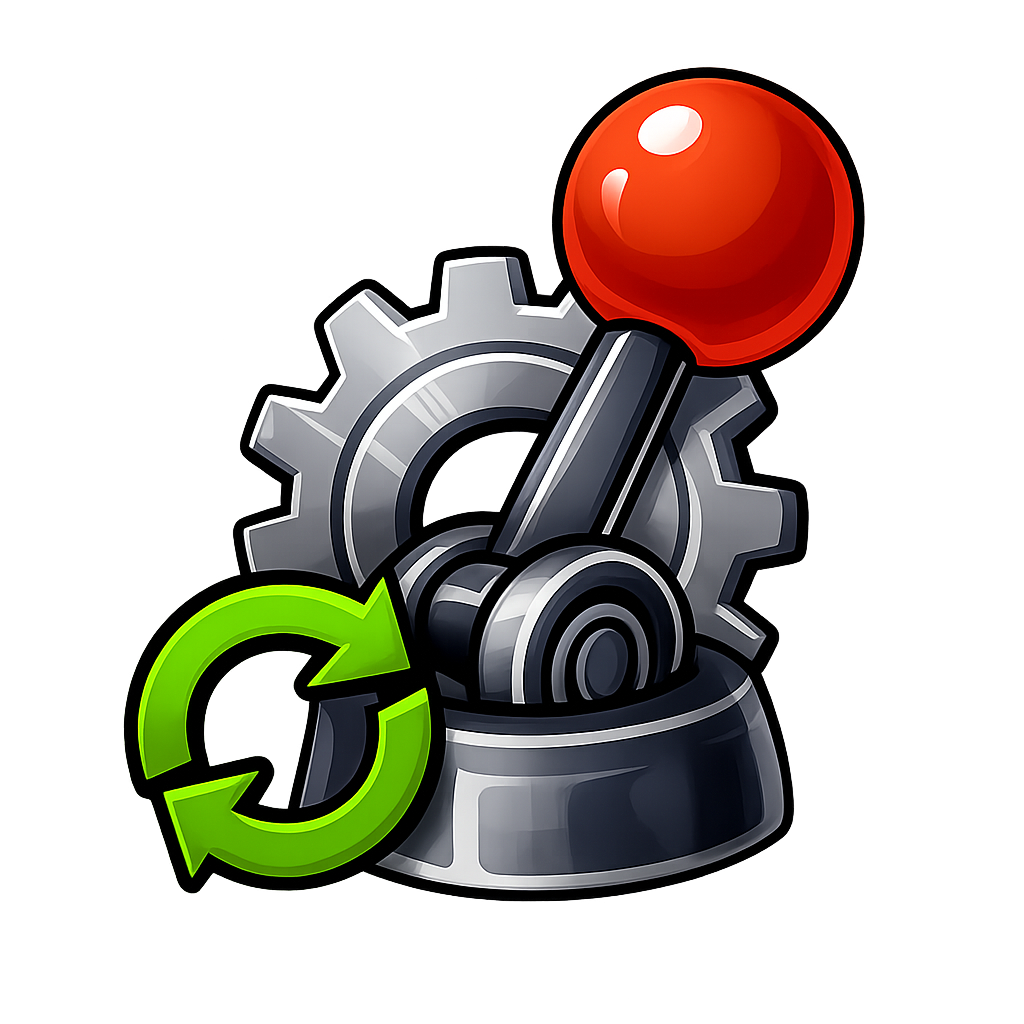
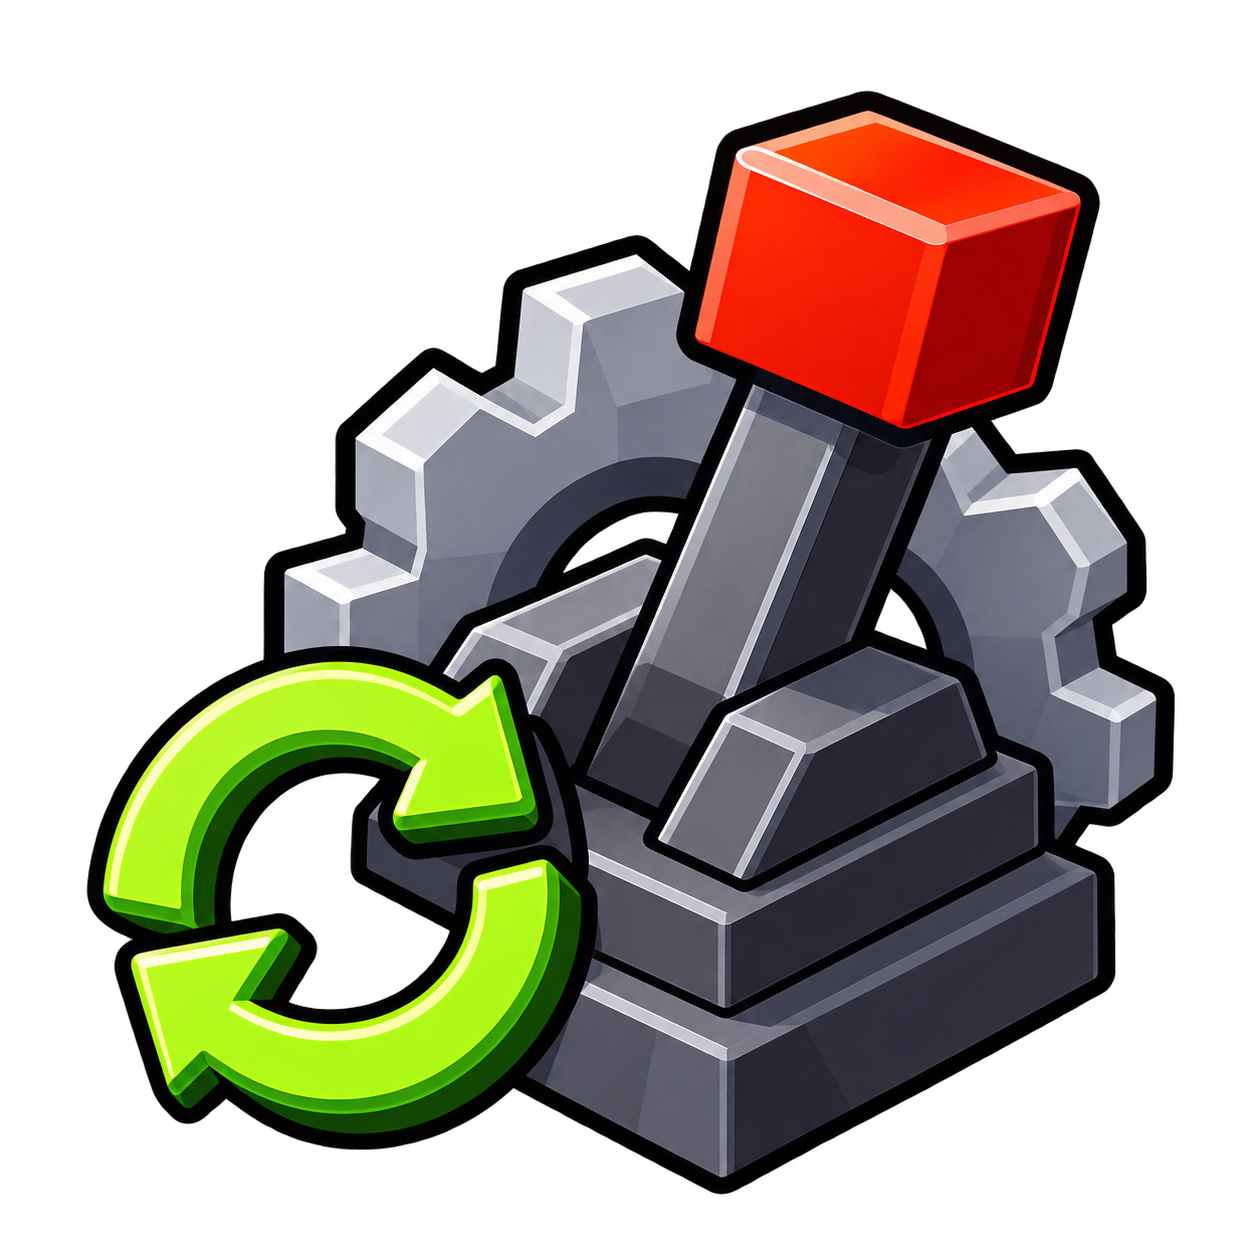
S6: Auto Roll and the Sell marker via the Codex CLI
The API credits ran out, so both were generated with the Codex CLI's
built-in image tool in the approved v2 style: Auto Roll (the Roll Speed
lever with a gear and green refresh arrows, replacing the v1 placeholder)
and SellTrash (red voxel trash can for S13's Sell menu). Both pass the
outline, alpha and occupancy checks; review sheet and README updated.

diff --git a/assets/upgrade-icons-20261020/review_sheet.py b/assets/upgrade-icons-20261020/review_sheet.py
@@ -79,7 +79,7 @@ GROUPS = [
         ("RollSpeed", "Roll Speed", "tree icon", "", PURPLE),
         ("Luck", "Extra Luck", "in game (Luck)", "", PURPLE),
         ("VacuumCapacity", "Vacuum Capacity", "tree icon", "", PURPLE),
-        ("AutoRoll", "Auto Roll", "placeholder: needs credits", "", PURPLE),
+        ("AutoRoll", "Auto Roll", "", "", PURPLE),
         ("CoinBoost", "Coin Boost", "", "", PURPLE),
         ("AutoRebirth", "Auto Rebirth", "", "", PURPLE),
         ("TimeSkip", "Time Skip", "", "", PURPLE),
@@ -95,6 +95,9 @@ GROUPS = [
         ("Gems", "Gems", "currency", "", None),
         ("FriendBoost", "Friend Boost", "HUD", "", None),
         ("GoldRush", "Gold Rush", "HUD event", "", None),
+    ]),
+    ("Sell menu (S13)", [
+        ("SellTrash", "Sell marker", "over a picked card", "", None),
     ]),
 ]
 
@@ -208,8 +211,8 @@ def main():
     sheet = Image.new("RGBA", (W, height), BG + (255,))
     draw = ImageDraw.Draw(sheet)
     outlined(draw, (MARGIN, 64), "My Chicken Army · upgrade icons v2 · Oct 20 overhaul (S6 review)", 46, anchor="lm")
-    draw.text((MARGIN, 120), "v2 in the in-game icon style: 32 new icons, Auto Roll still a placeholder, and 11 nodes kept on "
-              "their approved in-game icon. Hex colours, names and tier numbers are mock-ups of S9's live UI.",
+    draw.text((MARGIN, 120), "v2 in the in-game icon style: 34 new icons and 11 nodes kept on their approved in-game icon "
+              "(\"in game\"). Hex colours, names and tier numbers are mock-ups of S9's live UI.",
               font=font(22), fill=MUTED, anchor="lm")
     y = 170
     for title, entries in GROUPS:

diff --git a/assets/upgrade-icons-20261020/prepare.py b/assets/upgrade-icons-20261020/prepare.py
@@ -34,9 +34,6 @@ STROKE = {"AutoRebirth", "Armor", "ArmyPower", "BossDamage", "Bounty", "CoinBoos
           "EggVacuum", "FriendBoost", "GoldMachine", "GoldRate", "GoldRush", "KeepUpgrades", "MutationLuck",
           "OpenArmy", "OpenTools", "RainbowMachine", "RebirthChickenOdds", "RollSpeed", "VacuumCapacity"}
 CLIP_HAIRLINE = {"AutoRebirth"}
-# Still the v1 placeholder: the v2 generation ran out of OpenAI credits. Run
-# ./generate.sh AutoRoll, copy the chosen raw/AutoRoll-*.png to AutoRoll.png, then remove it here.
-PENDING = {"AutoRoll"}
 INK = (16, 23, 18)
 
 
@@ -112,8 +109,7 @@ def prepare(key: str) -> Image.Image:
 def main() -> None:
     args = sys.argv[1:]
     rgba = "--rgba" in args
-    keys = [a for a in args if a != "--rgba"] or sorted(
-        p.stem for p in HERE.glob("*.png") if p.stem[0].isupper() and p.stem not in PENDING)
+    keys = [a for a in args if a != "--rgba"] or sorted(p.stem for p in HERE.glob("*.png") if p.stem[0].isupper())
     out = HERE / "upload"
     out.mkdir(exist_ok=True)
     for key in keys:

diff --git a/assets/upgrade-icons-20261020/README.md b/assets/upgrade-icons-20261020/README.md
@@ -3,9 +3,13 @@
 Icons for the October 20 overhaul: the new Upgrades tree, the Gem Upgrades, the Gems currency
 and the new HUD pieces. Plan: `docs/team/OVERHAUL_PLAN_20261020.md`, section S6.
 
-**Status:** v2, waiting for Stevin's review. Nothing is uploaded, nothing was done in Studio,
-and no game code changed. Auto Roll still needs one generation once the OpenAI account has
-credits again.
+**Status:** Stevin approved v2 ("Alright this is perfect"). Two icons were added afterwards and
+are on the review sheet for his look:
+- `AutoRoll`, which replaces the v1 placeholder;
+- `SellTrash`, the Sell menu marker that S13 asked for.
+
+Both were made with the Codex CLI's built-in image tool, because the OpenAI API credits ran out.
+Nothing is uploaded, nothing was done in Studio, and no game code changed.
 
 ## Why v2
 
@@ -23,11 +27,12 @@ in-game icons.
 
 | File | What it is |
 | --- | --- |
-| `<Key>.png` | The 1024² masters, exactly as generated. `AutoRoll.png` is still the v1 placeholder. |
-| `upload/<Key>.png` | 512² upload copies of the 32 new icons, made by `prepare.py` (see Clean-up). |
+| `<Key>.png` | The masters, exactly as generated: 1024² from the API, 1254² from Codex (`AutoRoll`, `SellTrash`). |
+| `upload/<Key>.png` | 512² upload copies of the 34 new icons, made by `prepare.py` (see Clean-up). |
 | `review-sheet.png` | Every node's icon in a mock tree hex or Gem card, with the in-game ones marked, plus a 64 px strip on four backgrounds. |
 | `pilot-v2-vs-ingame.png` | The v2 pilots beside the in-game icons. |
 | `generate.sh`, `prepare.py`, `review_sheet.py` | Prompts and references, upload copies, review sheet. |
+| `codex/<Key>.prompt.txt` | The Codex CLI prompts for `AutoRoll` and `SellTrash`. |
 
 ## Decisions
 
@@ -55,7 +60,7 @@ in-game icons.
 
 - **"Rainbow Machine"** is a working name for the tier above Diamond; S12 can rename the node.
 
-## New icons (32, plus Auto Roll pending)
+## New icons (34)
 
 | Group | Keys |
 | --- | --- |
@@ -64,8 +69,9 @@ in-game icons.
 | Tools | `EggVacuum` (tool hex and hotbar tool), `VacuumCapacity` (also Gem Vacuum Capacity), `VacuumRange` |
 | Player | `WalkSpeed`, `ClickRange`, `OfflineTime` |
 | Army | `Damage`, `Armor`, `BossDamage`, `Bounty`, `CaptureSpeed` |
-| Gem Upgrades | `AutoRoll` (pending), `CoinBoost`, `AutoRebirth`, `TimeSkip`, `MoreGems`, `KeepUpgrades`, `MutationLuck`, `OfflineCoins`, `ArmyPower`, `RebirthChickenOdds` |
+| Gem Upgrades | `AutoRoll`, `CoinBoost`, `AutoRebirth`, `TimeSkip`, `MoreGems`, `KeepUpgrades`, `MutationLuck`, `OfflineCoins`, `ArmyPower`, `RebirthChickenOdds` |
 | Currency and HUD | `Gems`, `FriendBoost` (Friend Boost line), `GoldRush` (countdown chip) |
+| Sell menu (S13) | `SellTrash`: the red trash can over a chicken card picked for sale. It goes in `Art.Trash` in `src/client/SellMenu.luau`. |
 
 `AutoRebirth` is the Re-enlist icon (the in-game Rebirth button) with a gear added, so it pairs
 with the Rebirth button.
@@ -106,7 +112,7 @@ The masters themselves are untouched; these fixes only go into the upload copies
 
 ## Checks run
 
-- **Upload copies:** all 32 are 512² RGBA, with transparent corners and 84–88% occupancy.
+- **Upload copies:** all 34 are 512² RGBA, with transparent corners and 84–88% occupancy.
 - **Holes:** a scan of the upload copies for see-through holes inside the artwork found only real
   gaps (arrow centres, the ripple ring, clock bells, the space inside the Rebirth ring, between
   falling coins and between legs).
@@ -119,13 +125,13 @@ The masters themselves are untouched; these fixes only go into the upload copies
 
 After Stevin approves:
 
-1. Upload `upload/*.png` (32 files) as group-owned Images, the same way as the gold coins
+1. Upload `upload/*.png` (34 files) as group-owned Images, the same way as the gold coins
    (`assets/gold-coins-20261020/README.md`). `python3 prepare.py --rgba` also writes the raw
    RGBA bytes for the EditableImage path.
 2. Record the asset ids in `upload-receipts.json` here.
 
-The 11 in-game icons above need no upload. Auto Roll follows once it is generated. The file
-keys are meant to be the registry keys in `ResearchAssets` / `UITheme`.
+The 11 in-game icons above need no upload. The file keys are meant to be the registry keys in
+`ResearchAssets` / `UITheme`.
 
 ## Regenerating
 
@@ -139,17 +145,23 @@ Other modes:
   masters into their variants. Auto Roll is the `RollSpeed` edit.
 - `./generate.sh outline KEY...` redraws a master with a heavy outline.
 
-To finish Auto Roll once the OpenAI account has credits:
+Without API credits, use the Codex CLI. Its built-in `image_gen` runs on Stevin's ChatGPT plan
+and supports transparency. Pass the prompt on stdin, because `-i` swallows a trailing argument.
+codex-cli 0.144.1 needs `-m gpt-5.6-sol`, since the configured `gpt-6-astra` requires a newer CLI.
+From this folder:
 
-1. Run `./generate.sh AutoRoll`.
-2. Copy the chosen raw file to `AutoRoll.png`.
-3. Remove `AutoRoll` from `PENDING` in `prepare.py`.
-4. Run `python3 prepare.py AutoRoll` and `python3 review_sheet.py`.
+```bash
+codex exec -m gpt-5.6-sol -C "$PWD" --sandbox workspace-write -c model_reasoning_effort="medium" -i RollSpeed.png -i GoldRate.png -i ../research-20261002/icons/boots.png -i ../research-20261002/icons/medkit.png < codex/AutoRoll.prompt.txt
+```
+
+Each prompt tells Codex to copy its image to `raw/<Key>-codex.png`. Pick it the same way as an
+API candidate. `SellTrash` attaches the boots, the first-aid kit and `EggVacuum.png`.
 
 ## Cost
 
 - v1: 58 image calls.
 - v2: 33 image calls (4 model-test calls, 6 pilot calls, 23 for the rest). The gpt-image-2 test
-  and the Auto Roll call returned errors and produced no image.
+  and the first Auto Roll call returned errors and produced no image.
+- Codex: two generations (`AutoRoll`, `SellTrash`) on the ChatGPT plan, not API credits.
 
-Check the OpenAI usage page for the exact cost.
+Check the OpenAI usage page for the exact API cost.
